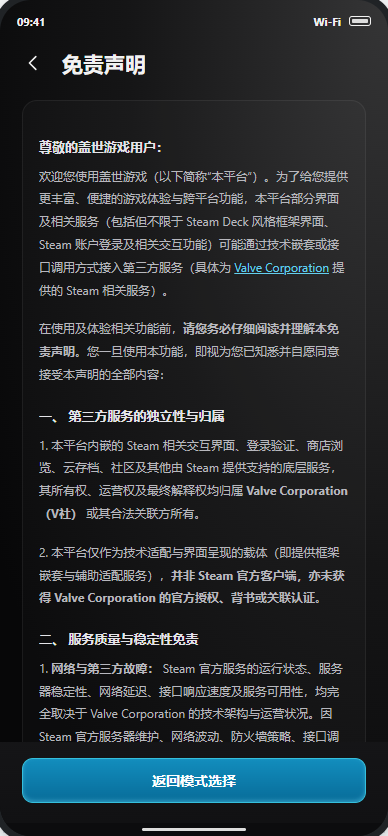
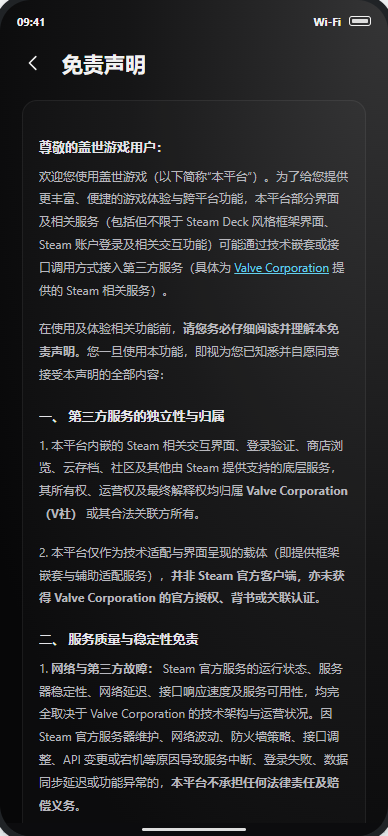
style: simplify Steam disclaimer reading view

Changed region(s): [[0.0309, 0.9019, 0.9588, 0.9952]]

diff --git a/outputs/steam-integration-20261028/Steam接入Demo.html b/outputs/steam-integration-20261028/Steam接入Demo.html
@@ -11,6 +11,7 @@
 
 .modal-underlay,.prepare-underlay{display:flex;flex-direction:column;position:absolute;inset:0;overflow:hidden}.prepare-overlay{align-items:center!important;padding:20px 16px!important}.prepare-modal.modal{width:100%;max-width:360px;max-height:calc(100% - 20px);border-radius:20px;padding:22px;display:flex;flex-direction:column;min-height:0;background:#242428;box-shadow:0 20px 65px #0008}.prepare-body{min-height:0;overflow:auto}.prepare-label{font-size:12px;color:#a4a5ad;margin-bottom:12px}.prepare-intro h2{font-size:21px;line-height:1.4;margin:0 0 8px}.prepare-intro .muted{font-size:12px;line-height:1.7;margin:0}.prepare-intro .fine{font-size:11px;margin:12px 0 18px}.prepare-modal .progress-card{padding:16px;margin:0;border-radius:14px}.prepare-modal .progress-head{font-size:12px}.prepare-modal .progress-meta{font-size:10px}.prepare-modal .steps{font-size:10px;gap:7px}.prepare-modal .err{font-size:11px;margin-top:12px}.prepare-actions{display:flex;gap:10px;padding-top:20px;flex-shrink:0}.prepare-actions .btn{min-height:44px;flex:1}.landscape .prepare-modal.modal{max-width:510px;padding:18px 22px;max-height:calc(100% - 12px)}.landscape .prepare-label{margin-bottom:5px}.landscape .prepare-intro h2{font-size:19px}.landscape .prepare-intro .fine{margin:7px 0 12px}.landscape .prepare-modal .progress-card{padding:12px 15px}.landscape .prepare-actions{padding-top:12px}
 .mode-page .flow-body{padding-top:16px}.mode-page .mode-list{margin-top:0}.landscape .mode-page .flow-body{display:block;padding:12px 28px}.landscape .mode-page .flow-body>div{max-width:680px;margin:0 auto}.landscape .mode-page .mode-card{flex-direction:row;text-align:left;min-height:86px;padding:16px;gap:14px}.landscape .mode-page .mode-card .radio{position:static;margin-left:auto}.landscape .mode-page .remember-row{margin-top:16px}
+.legal-page .flow-body{scrollbar-width:none;-ms-overflow-style:none}.legal-page .flow-body::-webkit-scrollbar{display:none;width:0;height:0}.landscape .legal-page .legal-box{height:auto;overflow:visible}
 
 .entry .account-avatar{width:30px;height:30px;border-radius:50%;background:#355967;display:flex;align-items:center;justify-content:center;overflow:hidden;flex:none}.account-avatar img{width:100%;height:100%;object-fit:cover}.entry .account-name{max-width:100%;overflow:hidden;text-overflow:ellipsis;white-space:nowrap;font-size:13px}.entry .account-avatar svg{width:20px;height:20px}.l-side .entry .account-name{max-width:135px}.gamecard,.recent-card{cursor:pointer}.recent-card{color:inherit}.host-home{padding:6px 14px 22px;background:radial-gradient(at 0 0,#49332599,transparent 64%)}.home-search{display:flex;gap:10px;align-items:center;margin:5px 0 20px}.home-search .search-shell{display:flex;align-items:center;gap:10px;flex:1;min-width:0;border:1px solid #ffffff19;border-radius:30px;background:#ffffff09;color:#93908d;padding:10px 12px;font-size:13px}.home-search .iconbtn{width:28px;padding:3px}.home-categories{display:flex;align-items:center;justify-content:space-between;gap:12px;font-size:14px;font-weight:650;color:#93908d;white-space:nowrap;margin-bottom:16px}.home-categories .active{color:#fff;border-bottom:3px solid #fff;padding-bottom:5px}.home-categories .party{color:#c8afff}.home-hero{border:3px solid #7b5536;border-radius:24px;overflow:hidden;background:#785133}.home-hero-head{background:#000;display:flex;gap:8px;padding:9px 13px;font-weight:700;font-size:14px}.home-hero-head time{background:#eee;border-radius:4px;color:#111;padding:0 4px;font-size:12px}.home-promo-media{position:relative;width:100%;aspect-ratio:490/190;overflow:hidden;background:#000}.home-promo-media img{position:absolute;max-width:none;width:107.7551%;height:auto;left:-3.6735%;top:-115.7895%}.home-hero-body{padding:9px 13px 12px}.home-hero-body p{margin:0 0 9px;color:#ddd;font-size:12px;line-height:1.55}.home-hero-body h3{margin:0;font-size:19px}.home-hero-body small{display:block;color:#bfa58c;margin-top:10px;font-size:12px}.home-hero-body small b{color:#ff923f}.hero-dots{text-align:center;letter-spacing:4px;font-size:11px;color:#d4b9a0;margin-top:11px}.home-news{margin:12px 6px 25px;display:flex;align-items:center;gap:10px;padding:10px;border:1px solid #ffffff1b;background:#ffffff06;border-radius:17px}.home-news img{width:39px;height:39px;object-fit:cover;border-radius:9px}.home-news strong{font-size:12px;overflow:hidden;white-space:nowrap;text-overflow:ellipsis;flex:1}.home-recommend h3{font-size:16px;margin:0 6px 16px}.home-recommend-row{display:flex;gap:12px;overflow:hidden;border-radius:16px;background:#ffffff09;padding:10px}.home-recommend-row img{width:28%;height:135px;object-fit:cover;border-radius:12px}.home-landscape{padding:16px 30px;display:grid;grid-template-columns:minmax(0,1.3fr) minmax(0,1fr);gap:24px}.home-landscape .home-search{margin:0 0 14px}.home-landscape .home-hero{max-width:440px}.home-landscape .home-promo-media{aspect-ratio:490/170}.home-landscape .home-promo-media img{top:-129.4118%}.home-landscape .home-hero-body p,.home-landscape .hero-dots{display:none}.home-landscape .home-hero-body h3{font-size:16px}.home-landscape .home-hero-body small{margin-top:5px}.home-landscape .home-news{margin:0 0 20px}.home-landscape .home-recommend-row img{height:160px}.community-empty{flex:1;display:flex;flex-direction:column;align-items:center;justify-content:center;color:#9b9ba0;gap:12px}.community-empty svg{width:38px;height:38px}.community-empty p{margin:0}.landing-modal .mode-card{padding:13px 16px;margin:8px 0}.landing-modal .mode-card strong{font-size:15px}.landing-modal .fine{margin:13px 0 0}.landscape .landing-modal{max-width:500px}.landscape .landing-options{display:grid;grid-template-columns:1fr 1fr;gap:10px}.landscape .landing-modal .mode-card{margin:0;flex-direction:row;text-align:left}.landscape .landing-modal .radio{position:static;margin-left:auto}.landing-guide{position:absolute;z-index:23;right:16px;bottom:70px;width:255px;max-width:calc(100% - 32px);padding:16px;border-radius:15px;border:1px solid #5e7d8d;background:#20323ff5;box-shadow:0 10px 30px #0005}.landing-guide p{margin:0;font-size:13px;line-height:1.6}.landing-guide div{display:flex;justify-content:flex-end;align-items:center;gap:10px;margin-top:12px}.landing-guide button{border:0;border-radius:7px;padding:8px 10px;background:transparent;color:#b7c5ce;font-size:12px}.landing-guide button.primary{background:#147da2;color:white}.landscape .landing-guide{bottom:50px}.l-nav .nav-link{background:none;border:0;padding:0;color:#8e8e94;display:flex;align-items:center;gap:6px}
 
@@ -88,7 +89,7 @@ function navPortrait(){return '<nav class="nav-p" aria-label="盖世导航">'+[[
 function entryCards(){return '<div class="entries"><button class="entry" data-action="enter-steam" data-testid="steam-entry">'+renderAccountEntry()+'</button><button class="entry" disabled title="保留原入口，本次不演示"><span class="epic-brand">'+EPIC+'</span><span>Epic</span></button><button class="entry" disabled title="保留原入口，本次不演示"><span class="plus">＋</span><span>导入游戏</span></button></div>'}
 function renderLibrary(){if(state.orientation==='landscape')return '<div class="l-nav"><strong>'+ic('grid')+'游戏库</strong><div class="dim">'+ic('home')+ic('chat')+ic('rank')+'</div><div class="right"><button class="iconbtn" data-action="settings" aria-label="设置">'+ic('gear')+'</button><span>09:41</span><i class="battery"></i></div></div><div class="main-content l-library"><section><div class="recent-title">最近游戏</div><div class="recent-row">'+games.slice(0,3).map(g=>'<button class="recent-card" data-action="launch-host-game" data-game="'+g.id+'"><img src="'+ASSETS[g.id]+'" alt="'+g.name+'封面"><strong>'+g.name+'</strong></button>').join('')+'</div><p class="muted" style="margin:12px 0 0;font-size:11px">我的游戏 · 本机已下载</p></section><section class="l-side"><div class="tabs" style="padding:0 0 17px;font-size:14px"><span class="current">PC游戏</span><span class="off" style="font-size:13px">复古游戏</span></div>'+entryCards()+'</section></div><div class="l-foot"><span>当前选择：游戏库</span><span>LB / RB 切换页面　 A 确认　 B 返回</span></div>';
 return stamp()+'<div class="main-content library"><div class="tabs"><span class="current">PC游戏</span><span class="off">复古游戏</span><button class="iconbtn" disabled aria-label="设备">'+ic('device')+'</button></div>'+entryCards()+'<div class="section-label"><h3>我的游戏</h3><span class="count">2款</span><div class="tools"><button disabled aria-label="搜索">'+ic('search')+'</button><button disabled aria-label="引擎设置">'+ic('gear')+'</button><button disabled>最近游玩</button></div></div><div class="game-grid">'+games.slice(0,2).map(g=>'<button class="gamecard" data-action="launch-host-game" data-game="'+g.id+'"><img src="'+ASSETS[g.id]+'" alt="'+g.name+'封面"><h4>'+g.name+'</h4><p>'+(g.id==='hades'?'已导入':'本机已下载')+'</p></button>').join('')+'</div></div>'+navPortrait()+gesture()}
-function renderLegal(){return stamp()+bar('免责声明','legal-close')+'<section class="flow"><div class="flow-body"><div class="legal legal-box">'+LEGAL_BODY+'</div></div><div class="flow-actions"><button class="btn primary" data-action="legal-close">'+(state.legalFrom==='mode'?'返回模式选择':'返回 Steam 设置')+'</button></div></section>'+gesture()}
+function renderLegal(){return stamp()+bar('免责声明','legal-close')+'<section class="flow legal-page"><div class="flow-body"><div class="legal legal-box">'+LEGAL_BODY+'</div></div></section>'+gesture()}
 function modeCard(mode,title,desc){return '<button class="mode-card" role="radio" aria-checked="'+(state.selection===mode)+'" data-action="select-mode" data-mode="'+mode+'"><span class="mode-icon">'+ic(mode==='gamepad'?'gamepad':'monitor')+'</span><span><strong>'+title+'</strong><small>'+desc+'</small></span><span class="radio"></span></button>'}
 function renderMode(){return stamp()+bar('Steam 启动模式')+'<section class="flow mode-page"><div class="flow-body"><div><div class="mode-list" role="radiogroup" aria-label="Steam启动模式">'+modeCard('gamepad','大屏模式','大卡片，适合手柄操作')+modeCard('window','窗口模式','桌面式界面，适合触屏 / 鼠标')+'</div><label class="remember-row"><span class="remember-copy"><span>记住我的选择</span><small>可在设置中修改启动模式</small></span><input type="checkbox" role="switch" aria-label="记住我的选择" id="remember" '+(state.remember?'checked':'')+'></label></div></div><div class="mode-actions"><div class="consent-line mode-consent"><input type="checkbox" id="consent" aria-label="同意第三方Steam服务调用免责声明" '+(state.consent?'checked':'')+'><span><label for="consent">我已阅读并同意</label><button class="agreement-link" data-action="read-agreement">《第三方 Steam 服务调用免责声明》</button></span></div><div class="flow-actions"><button class="btn secondary" data-action="library">取消</button><button class="btn primary" data-action="confirm-mode" data-testid="confirm-mode" '+(!state.consent?'disabled':'')+'>继续</button></div></div></section>'+gesture()}
 const stageCopy={idle:['准备 Steam','首次使用需要下载运行组件'],metadata:['正在获取包体信息','请稍候，即将开始下载'],downloading:['正在下载运行组件','收起后暂停，稍后可继续'],paused:['下载已暂停','已保留下载进度'],network:['网络连接中断','请检查网络后重试'],storage:['存储空间不足','请释放存储空间后重试'],verifying:['正在校验组件','下载完成，正在检查文件完整性'],verifyError:['组件校验失败','当前文件不可用于启动，请重新准备'],preparing:['正在准备运行环境','请稍候，首次准备可能需要一些时间'],prepareError:['运行环境准备失败','已下载内容保留，可以重试'],starting:['正在启动 Steam','运行组件已就绪，等待 Steam 界面'],startError:['Steam 启动失败','运行环境未能完成初始化']};
